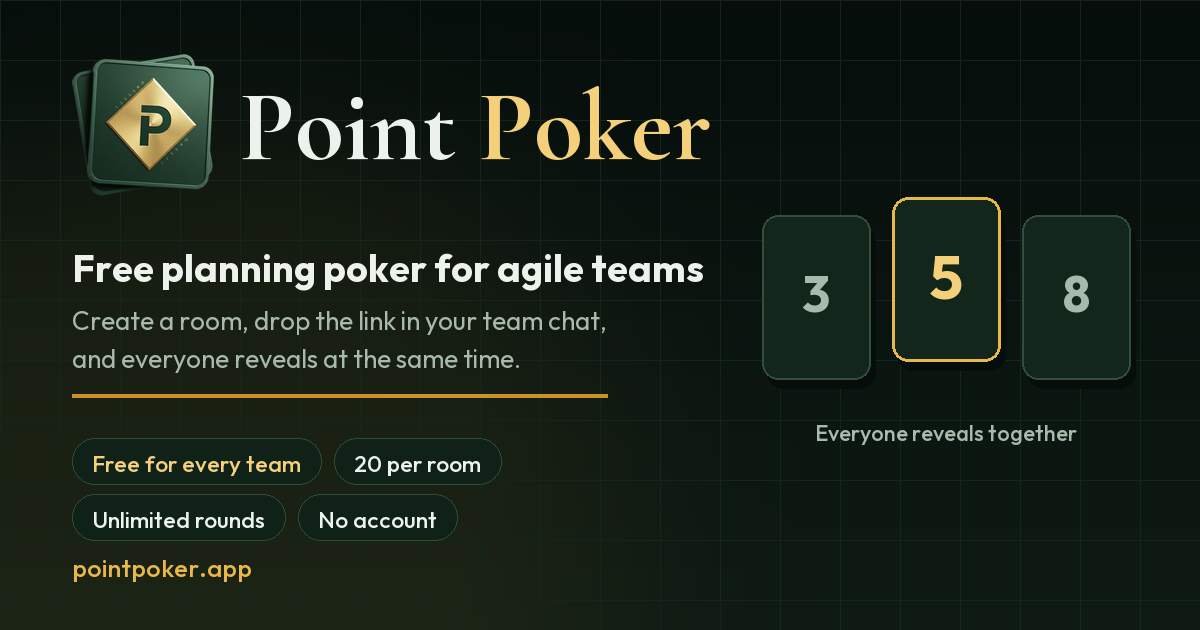
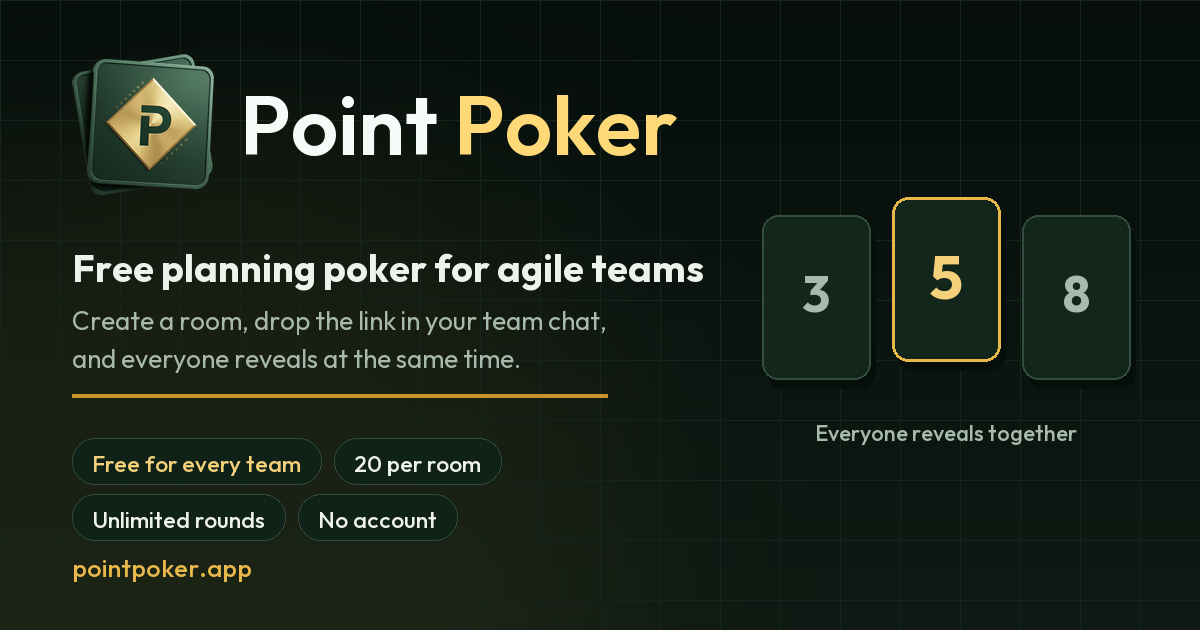
fix(brand): the share card is set in the site's own wordmark
The typeface pass left the OG card as the last place anywhere still
showing the display serif, and therefore the one image of the brand
that no longer matched the brand. It is Outfit 600 now, in the two
colours .pp-logo--on-felt resolves to, so the card's lockup is the
site's lockup. Nothing else on the card moved -- diffed against the
committed PNG to be sure the redraw touched only the wordmark.

Both of the wordmark's numbers are derived rather than picked. Its size
is the site logo's own ratio, a 28px word on a 48px mark, applied to
this card's 142px mark; choosing by eye would have given ~92px, the
size at which Outfit matches the old serif's cap height, perpetuating a
proportion the site never had. Its baseline comes from the rendered cap
box of "PP", because "Point Poker" has one descender and nothing above
cap height, so its em box sits low and a fixed y drifts with the face.

PIL has no letter-spacing, so the site's -0.02em is not reproduced:
faking it per-character forfeits the face's kerning pairs, which is the
worse trade at this size. Written down in the script.

?v=2 -> ?v=3. Unfurl caches key on the image URL and the PNG is
replaced in place, so a redraw without a bump ships to nobody.

Two tests, both mutation-tested:

- every .woff2 the OG script names must ship in public/fonts. The
  script holds filenames no bundler resolves and no test read, so when
  the serif moved out from under it the script kept a live path to a
[…]

Changed region(s): [[0.185, 0.1508, 0.5858, 0.2714]]

diff --git a/src/designsystem.test.js b/src/designsystem.test.js
@@ -1411,6 +1411,21 @@ describe("brand assets", () => {
     for (const h of hrefs) expect(`${h}:${existsSync(join(publicDir, h))}`).toBe(`${h}:true`);
   });
 
+  test("every unfurl points at the same version of the OG card", () => {
+    /* The card is one PNG replaced in place, and every unfurl cache keys on the
+       URL — so the ?v=N is the only thing that makes a redraw visible. It is
+       written in three places: DEFAULT_OG_IMAGE, and og:image and twitter:image
+       in the boot HTML. Bump one and the others quietly keep serving the card
+       from before the fix. */
+    const html = readFileSync(join(publicDir, "index.html"), "utf8");
+    const meta = readFileSync(join(__dirname, "routeMeta.mjs"), "utf8");
+    const versions = [...html.matchAll(/og-image\.png\?v=(\d+)/g)].map((m) => m[1]);
+    const [canonical] = [...meta.matchAll(/og-image\.png\?v=(\d+)/g)].map((m) => m[1]);
+    expect(versions).toHaveLength(2); // og:image and twitter:image
+    expect(canonical).toBeDefined();
+    expect(versions).toEqual([canonical, canonical]);
+  });
+
   test("the nav mark stays at least 3x the largest size any screen draws it", () => {
     // PNG header: width and height are big-endian uint32 at byte 16 and 20.
     const png = readFileSync(join(publicDir, "brand-mark.png"));
@@ -1927,6 +1942,20 @@ describe("the system rules", () => {
     const files = readdirSync(join(__dirname, "..", "public", "fonts")).filter((f) => f.endsWith(".woff2"));
     const referenced = [...fontsCss.matchAll(/url\('\.\/([^']+)'\)/g)].map((m) => m[1]);
     expect(files.filter((f) => !referenced.includes(f))).toEqual([]);
+  });
+
+  test("and every face the OG card asks for is one that still ships", () => {
+    /* A fourth direction, and the one that bit. The card is drawn by a Python
+       script outside the build, so it holds filenames no bundler resolves and
+       no test above reads: when the serif moved out from under it the script
+       kept a live path to a file the deploy no longer had, and nothing failed
+       until somebody next ran it by hand. It reads public/fonts now — the same
+       directory the app ships — so this pins the two together. */
+    const script = readFileSync(join(__dirname, "..", "scripts", "make-og-image.py"), "utf8");
+    const files = readdirSync(join(__dirname, "..", "public", "fonts"));
+    const asked = [...script.matchAll(/"([\w-]+\.woff2)"/g)].map((m) => m[1]);
+    expect(asked.length).toBeGreaterThan(0);
+    expect(asked.filter((f) => !files.includes(f))).toEqual([]);
   });
 
   test("and every family declared is one a token can still name", () => {

diff --git a/public/index.html b/public/index.html
@@ -17,7 +17,7 @@
     <meta property="og:url" content="https://www.pointpoker.app/" />
     <meta property="og:title" content="Free Planning Poker Online — No Sign-Up, No Limits | Point Poker" />
     <meta property="og:description" content="Every feature free for every team: 20 participants, unlimited rounds and stories, all card decks, timer, analytics, CSV export. No account, no ads." />
-    <meta property="og:image" content="https://www.pointpoker.app/og-image.png?v=2" />
+    <meta property="og:image" content="https://www.pointpoker.app/og-image.png?v=3" />
     <meta property="og:image:type" content="image/png" />
     <meta property="og:image:width" content="1200" />
     <meta property="og:image:height" content="630" />
@@ -30,7 +30,7 @@
     <meta name="twitter:url" content="https://www.pointpoker.app/" />
     <meta name="twitter:title" content="Free Planning Poker Online — No Sign-Up, No Limits | Point Poker" />
     <meta name="twitter:description" content="Every feature free for every team: 20 participants, unlimited rounds and stories, all card decks, timer, analytics, CSV export. No account, no ads." />
-    <meta name="twitter:image" content="https://www.pointpoker.app/og-image.png?v=2" />
+    <meta name="twitter:image" content="https://www.pointpoker.app/og-image.png?v=3" />
     <meta name="twitter:image:alt" content="The Point Poker logo beside the words Free planning poker for agile teams, three story-point cards reading 3, 5 and 8 with the 5 picked out in gold, and the labels Free for every team, 20 per room, Unlimited rounds and No account." />
 
     <!-- ── Theme & PWA ───────────────────────────────────────────── -->

diff --git a/public/fonts/fonts.css b/public/fonts/fonts.css
@@ -53,8 +53,8 @@
 
 /* Cormorant Garamond is NOT declared here, and that is not an oversight —
    the same missing-@font-face shape caused a real bug in Aug 2026, so it is
-   written down. Nothing in the product renders it any more: the modal title
-   was its last selector and moved to Outfit on 14 Aug. Its .woff2 lives in
-   assets/fonts/, outside everything that ships, and only
-   scripts/make-og-image.py reads it — to draw the OG card's wordmark. Declaring
-   a face nothing requests would put 22 kB in the deploy for no reader. */
+   written down. The product had a display serif; the modal title was its last
+   selector and moved to Outfit on 14 Aug, and the OG card — the one thing
+   outside the app that still drew it — was reset in Outfit the same day. The
+   .woff2 is deleted. This is now the whole set: one family, five weights, and
+   every one of them is requested by something. */

diff --git a/src/design-system/tokens.css b/src/design-system/tokens.css
@@ -122,9 +122,9 @@
    title — which put two typefaces inside one dialog: "Sign in" in the serif
    directly above a card title in Outfit. The owner asked for the heading face,
    so the serif now renders nowhere and the token that named it would have been
-   a live-looking pointer at nothing. Its .woff2 moved to assets/fonts/, out of
-   everything that ships, because scripts/make-og-image.py still draws the OG
-   card's wordmark with it.
+   a live-looking pointer at nothing. The OG card was the last thing anywhere
+   that drew it — scripts/make-og-image.py sets the wordmark in Outfit 600 now,
+   at the site logo's own word-to-mark ratio — and the .woff2 is deleted.
 
    Every NUMBER in the product — card values, stat values, timers, table cells —
    is --font-ui with tabular-nums, which was the reason the serif was kept off

diff --git a/scripts/make-og-image.py b/scripts/make-og-image.py
@@ -6,8 +6,16 @@ been false since the product went free for everyone, and three of its labels
 were clipped by their own pills. Every string here is measured before it is
 drawn, so nothing can silently overflow again.
 
-Fonts come from public/fonts, converted from woff2 on the fly, so this uses the
-same Cormorant Garamond and Outfit the site does rather than a lookalike.
+Fonts come from public/fonts, converted from woff2 on the fly, so the card is
+set in the same Outfit the site ships rather than a lookalike.
+
+The wordmark is measured against the mark rather than positioned by eye: its
+size is the site logo's word-to-mark ratio (28px word on a 48px mark) applied
+to this card's 142px mark, and its baseline is derived from the rendered cap
+box so the caps centre on the mark whatever the face's metrics happen to be.
+PIL has no letter-spacing, so the site's -0.02em is not reproduced; drawing
+per-character to fake it would cost the face's kerning pairs, which is the
+worse trade at this size.
 
 Run: python3 scripts/make-og-image.py     (needs Pillow, fonttools, brotli)
 """
@@ -19,12 +27,6 @@ from PIL import Image, ImageDraw, ImageFilter, ImageFont
 
 ROOT = os.path.dirname(os.path.dirname(os.path.abspath(__file__)))
 FONTS = os.path.join(ROOT, "public", "fonts")
-# Cormorant is no longer one of the shipped faces: nothing in the product
-# renders it since the modal title moved to Outfit (14 Aug 2026), so keeping it
-# under public/ would put 22 kB in every deploy for no reader. It lives beside
-# the other build-time-only brand assets instead, and this card is the last
-# thing that draws it. See public/fonts/fonts.css.
-BRAND_FONTS = os.path.join(ROOT, "assets", "fonts")
 W, H = 1200, 630
 
 # Straight from src/design-system/tokens.css.
@@ -36,11 +38,15 @@ GOLD2 = (232, 184, 75)
 GOLD3 = (245, 208, 122)
 CREAM = (238, 242, 236)
 MUTED = (168, 186, 172)
+# The wordmark's own two colours, so the card's logo is the site's logo. These
+# are --text-on-felt and --brass-300, what .pp-logo--on-felt resolves to.
+ON_FELT = (245, 251, 247)
+BRASS_300 = (255, 217, 120)
 
 
-def font(name, size, where=None):
+def font(name, size):
     """Load a brand woff2 as a PIL font (fontTools does the decompression)."""
-    f = TTFont(os.path.join(where or FONTS, name))
+    f = TTFont(os.path.join(FONTS, name))
     f.flavor = None
     buf = io.BytesIO()
     f.save(buf)
@@ -48,9 +54,9 @@ def font(name, size, where=None):
     return ImageFont.truetype(buf, size)
 
 
-CORMORANT_BOLD = "cormorant-garamond-v21-latin-700.woff2"
 OUTFIT_REG = "outfit-v15-latin-regular.woff2"
 OUTFIT_MED = "outfit-v15-latin-500.woff2"
+OUTFIT_SEMI = "outfit-v15-latin-600.woff2"
 OUTFIT_BOLD = "outfit-v15-latin-700.woff2"
 
 
@@ -88,20 +94,25 @@ DECK_X = 762
 
 # ── the mark ───────────────────────────────────────────────────────────────
 mark = Image.open(os.path.join(ROOT, "public", "logo512.png")).convert("RGBA")
-MARK = 142
+MARK, MARK_Y = 142, 54
 mark = mark.resize((MARK, MARK), Image.LANCZOS)
-img.paste(mark, (PAD, 54), mark)
+img.paste(mark, (PAD, MARK_Y), mark)
 
 # ── wordmark and copy ──────────────────────────────────────────────────────
-f_brand = font(CORMORANT_BOLD, 100, BRAND_FONTS)
+# .pp-logo--lg sets a 28px word beside a 48px mark; this card's mark is 142.
+f_brand = font(OUTFIT_SEMI, round(MARK * 28 / 48))
 f_tag = font(OUTFIT_BOLD, 38)
 f_body = font(OUTFIT_REG, 26)
 f_pill = font(OUTFIT_MED, 23)
 f_url = font(OUTFIT_MED, 25)
 
-x = PAD + MARK + 26
-d.text((x, 66), "Point", font=f_brand, fill=CREAM)
-d.text((x + d.textlength("Point ", font=f_brand), 66), "Poker", font=f_brand, fill=GOLD3)
+# Centre the caps on the mark, not the em box: "Point Poker" has one descender
+# and no ascender above cap height, so the em box sits low and a fixed y drifts
+# with the face. "PP" is cap top to baseline and nothing else.
+cap_top, cap_bottom = d.textbbox((0, 0), "PP", font=f_brand)[1::2]
+x, brand_y = PAD + MARK + 26, round(MARK_Y + MARK / 2 - (cap_top + cap_bottom) / 2)
+d.text((x, brand_y), "Point", font=f_brand, fill=ON_FELT)
+d.text((x + d.textlength("Point ", font=f_brand), brand_y), "Poker", font=f_brand, fill=BRASS_300)
 
 d.text((PAD, 244), "Free planning poker for agile teams", font=f_tag, fill=CREAM)
 

diff --git a/docs/AI-CONTEXT.md b/docs/AI-CONTEXT.md
@@ -121,7 +121,7 @@ console. No client can write to `/admins`, so nobody can promote themselves.
 
 ## Tests
 
-`npm test` — 321 test blocks across AdminDashboard.test.js, App.test.js, AppErrorBoundary.test.js, design-system/design-system.test.js, designsystem.test.js, estimation.test.js (more cases
+`npm test` — 323 test blocks across AdminDashboard.test.js, App.test.js, AppErrorBoundary.test.js, design-system/design-system.test.js, designsystem.test.js, estimation.test.js (more cases
 than that at runtime, because `test.each` expands). They cover the things
 that break silently: the estimation maths (consensus, stats, slugs), SEO route metadata
 uniqueness, and the dashboard arithmetic that business decisions rest on.
@@ -945,16 +945,13 @@ Two other selectors named `--font-display`: `.pp-logo--serif` and
 prop that silently does nothing is worse than no prop.
 
 With nothing rendering it, the token, the `@font-face` and the shipped file all
-had to go. The `.woff2` **moved to `assets/fonts/`** rather than being deleted,
-because `scripts/make-og-image.py` still draws the OG card's wordmark with it,
-and `assets/` is outside everything that ships (same reason
-`brand-mark-master.png` lives there). `build/fonts` is Outfit only now — 84 kB,
-down 22.
+had to go. The `.woff2` moved to `assets/fonts/` first, because
+`scripts/make-og-image.py` still drew the OG card's wordmark with it and that
+card was then the only place left in the world showing the serif. `build/fonts`
+became Outfit only — 84 kB, down 22.
 
-**Left undone, deliberately:** the OG card still renders the brand wordmark in
-Cormorant, which now disagrees with the site. Regenerating it needs
-`pip install pillow fonttools brotli`, which is not installed here, so it was
-left whole rather than half-changed. Decide it, do not inherit it.
+**That halfway state lasted one turn; see the next section.** The font is
+deleted now and `assets/` holds only `brand-mark-master.png` again.
 
 ### Two tests that were green while the rule was broken
 
@@ -970,6 +967,56 @@ left whole rather than half-changed. Decide it, do not inherit it.
   the same failure shape as the missing `@font-face`. A test now fails on any
   `var(--x)` with no fallback naming a property nothing defines;
   `var(--x, fallback)` is exempt, because a fallback is the contract.
+
+## The OG card agrees with the site — 14 August 2026
+
+The section above left the share card as the last place the serif appeared, and
+therefore the one image of the brand that no longer matched the brand. The
+owner asked for it fixed. `pip install pillow fonttools brotli` into a throwaway
+venv is all it took; nothing about the change needed to wait.
+
+**The wordmark is Outfit 600 at `--text-on-felt` / `--brass-300`** — the two
+colours `.pp-logo--on-felt` resolves to, so the card's lockup is the site's
+lockup rather than an approximation of it. Everything else on the card is
+byte-identical: same copy, same pills, same deck, same felt. Diffed against
+`git show HEAD:public/og-image.png` to be sure the redraw touched only the
+wordmark.
+
+**Two numbers are derived rather than chosen**, which is the part worth keeping:
+
+- **Size.** `.pp-logo--lg` puts a 28px word beside a 48px mark; the card's mark
+  is 142px, so the word is `round(142 × 28 / 48)` = 83px. Picking by eye would
+  have given ~92 — that is the size at which Outfit matches the *old serif's*
+  cap height, and it perpetuates a proportion the site never had.
+- **Baseline.** Centred on the mark using the rendered cap box of `"PP"`, not a
+  literal `y`. "Point Poker" has one descender and nothing above cap height, so
+  its em box sits low and any fixed `y` drifts the moment the face changes —
+  which is exactly the change that had just been made.
+
+**PIL has no letter-spacing, so the site's `-0.02em` is not reproduced.** Faking
+it means drawing character by character, which forfeits the face's kerning
+pairs. At 83px that is the worse trade, and it is written down in the script so
+the next person does not "fix" it.
+
+### The cache-buster is the whole delivery mechanism
+
+`?v=2` → **`?v=3`**. LinkedIn, Facebook, Slack and X key their unfurl cache on
+the image URL, and the PNG is replaced in place, so a redraw that does not bump
+the version ships to nobody. The literal lives in three places —
+`DEFAULT_OG_IMAGE` in `routeMeta.mjs`, and `og:image` and `twitter:image` in
+`public/index.html` — and **a test now pins the three together**, because
+bumping one and forgetting the others is the same failure, quieter.
+
+### The test that would have caught the halfway state
+
+`scripts/make-og-image.py` holds font *filenames*, resolved by no bundler and
+read by no test. When the serif moved out from under it, the script kept a live
+path to a file the deploy no longer had, and nothing failed until somebody ran
+it by hand. A fourth direction now closes that loop too: **every `.woff2` the OG
+script names must be one that ships in `public/fonts`.** Both new tests were
+mutation-tested.
+
+`assets/fonts/` is gone; `assets/` is `brand-mark-master.png` alone again.
 
 ## The ghost variant is deleted — 14 August 2026 (reported by the owner)
 

diff --git a/docs/AI-CONTEXT.hand.md b/docs/AI-CONTEXT.hand.md
@@ -774,16 +774,13 @@ Two other selectors named `--font-display`: `.pp-logo--serif` and
 prop that silently does nothing is worse than no prop.
 
 With nothing rendering it, the token, the `@font-face` and the shipped file all
-had to go. The `.woff2` **moved to `assets/fonts/`** rather than being deleted,
-because `scripts/make-og-image.py` still draws the OG card's wordmark with it,
-and `assets/` is outside everything that ships (same reason
-`brand-mark-master.png` lives there). `build/fonts` is Outfit only now — 84 kB,
-down 22.
+had to go. The `.woff2` moved to `assets/fonts/` first, because
+`scripts/make-og-image.py` still drew the OG card's wordmark with it and that
+card was then the only place left in the world showing the serif. `build/fonts`
+became Outfit only — 84 kB, down 22.
 
-**Left undone, deliberately:** the OG card still renders the brand wordmark in
-Cormorant, which now disagrees with the site. Regenerating it needs
-`pip install pillow fonttools brotli`, which is not installed here, so it was
-left whole rather than half-changed. Decide it, do not inherit it.
+**That halfway state lasted one turn; see the next section.** The font is
+deleted now and `assets/` holds only `brand-mark-master.png` again.
 
 ### Two tests that were green while the rule was broken
 
@@ -799,6 +796,56 @@ left whole rather than half-changed. Decide it, do not inherit it.
   the same failure shape as the missing `@font-face`. A test now fails on any
   `var(--x)` with no fallback naming a property nothing defines;
   `var(--x, fallback)` is exempt, because a fallback is the contract.
+
+## The OG card agrees with the site — 14 August 2026
+
+The section above left the share card as the last place the serif appeared, and
+therefore the one image of the brand that no longer matched the brand. The
+owner asked for it fixed. `pip install pillow fonttools brotli` into a throwaway
+venv is all it took; nothing about the change needed to wait.
+
+**The wordmark is Outfit 600 at `--text-on-felt` / `--brass-300`** — the two
+colours `.pp-logo--on-felt` resolves to, so the card's lockup is the site's
+lockup rather than an approximation of it. Everything else on the card is
+byte-identical: same copy, same pills, same deck, same felt. Diffed against
+`git show HEAD:public/og-image.png` to be sure the redraw touched only the
+wordmark.
+
+**Two numbers are derived rather than chosen**, which is the part worth keeping:
+
+- **Size.** `.pp-logo--lg` puts a 28px word beside a 48px mark; the card's mark
+  is 142px, so the word is `round(142 × 28 / 48)` = 83px. Picking by eye would
+  have given ~92 — that is the size at which Outfit matches the *old serif's*
+  cap height, and it perpetuates a proportion the site never had.
+- **Baseline.** Centred on the mark using the rendered cap box of `"PP"`, not a
+  literal `y`. "Point Poker" has one descender and nothing above cap height, so
+  its em box sits low and any fixed `y` drifts the moment the face changes —
+  which is exactly the change that had just been made.
+
+**PIL has no letter-spacing, so the site's `-0.02em` is not reproduced.** Faking
+it means drawing character by character, which forfeits the face's kerning
+pairs. At 83px that is the worse trade, and it is written down in the script so
+the next person does not "fix" it.
+
+### The cache-buster is the whole delivery mechanism
+
+`?v=2` → **`?v=3`**. LinkedIn, Facebook, Slack and X key their unfurl cache on
+the image URL, and the PNG is replaced in place, so a redraw that does not bump
+the version ships to nobody. The literal lives in three places —
+`DEFAULT_OG_IMAGE` in `routeMeta.mjs`, and `og:image` and `twitter:image` in
+`public/index.html` — and **a test now pins the three together**, because
+bumping one and forgetting the others is the same failure, quieter.
+
+### The test that would have caught the halfway state
+
+`scripts/make-og-image.py` holds font *filenames*, resolved by no bundler and
+read by no test. When the serif moved out from under it, the script kept a live
+path to a file the deploy no longer had, and nothing failed until somebody ran
+it by hand. A fourth direction now closes that loop too: **every `.woff2` the OG
+script names must be one that ships in `public/fonts`.** Both new tests were
+mutation-tested.
+
+`assets/fonts/` is gone; `assets/` is `brand-mark-master.png` alone again.
 
 ## The ghost variant is deleted — 14 August 2026 (reported by the owner)
 

diff --git a/PROGRESS.md b/PROGRESS.md
@@ -7,14 +7,22 @@
   branch (design sweep, deck migration into the design system, dead-CSS removal,
   the Cormorant `@font-face` fix, and the measured header ladder) was merged to
   `main` on 13 August 2026.
-- 497 Jest tests pass; production build succeeds; sitemap and prerender both
+- 499 Jest tests pass; production build succeeds; sitemap and prerender both
   contain 26 URLs/documents.
 - **14 August:** one typeface. The modal title was the last selector rendering
   the display serif, which put two faces inside the sign-in dialog; it is
   Outfit now, at the same 22px. With nothing left rendering Cormorant the
   token, the `@font-face` and two unreachable selectors went with it, and the
-  `.woff2` moved to `assets/fonts/` — `scripts/make-og-image.py` still needs
-  it, and the deploy is 22 kB lighter.
+  deploy is 22 kB lighter.
+- **14 August:** the OG share card is reset in Outfit, so the last image of the
+  brand still using the serif now matches the brand. The wordmark's size comes
+  from the site logo's own 28-on-48 word-to-mark ratio and its baseline from the
+  rendered cap box, rather than either being chosen by eye; the two wordmark
+  colours are what `.pp-logo--on-felt` resolves to. Nothing else on the card
+  changed. `?v=2` → `?v=3`, without which no unfurl cache would ever have
+  refetched it. Cormorant is deleted outright — `assets/fonts/` is gone. Two new
+  tests: every face the OG script names must still ship, and the three places
+  that write the card's version must agree.
 - **14 August:** the `ghost` button variant is deleted product-wide. It was
   transparent fill, transparent border and muted text, and it was carrying nine
   real controls (Sign in, Sign out, Stop timer, Leave, Resend verification,

diff --git a/PROJECT.md b/PROJECT.md
@@ -410,7 +410,8 @@ live token files.
 
 - **All text:** Outfit, self-hosted, weights 300/400/500/600/700
 - Display contexts use Outfit 700 with tight negative tracking
-- Old Cormorant files remain in `public/fonts/` but are not referenced
+- One family only. The Cormorant Garamond files are deleted, not merely
+  unreferenced — `public/fonts/` is Outfit and nothing else
 
 ### Animation keyframes defined
 
